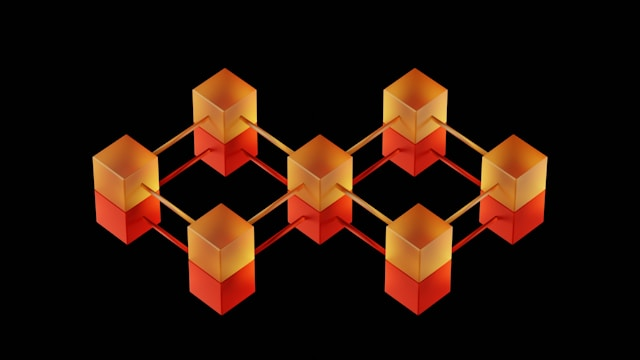
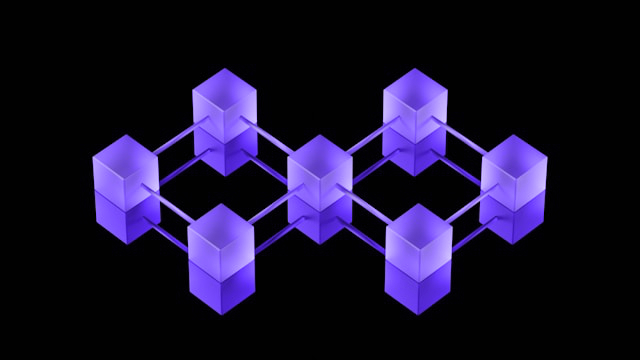
style(landing): added animated project carousel and switchable proof imagery

Changed region(s): [[0.125, 0.1833, 0.875, 0.8861]]

diff --git a/src/components/patterns/BuildIdeasSection.tsx b/src/components/patterns/BuildIdeasSection.tsx
@@ -36,6 +36,44 @@ const otherPrompts = [
   'Greenhouse monitor',
 ] as const;
 
+function ProjectIdeaCards({ duplicate = false }: { duplicate?: boolean }) {
+  return (
+    <div
+      aria-hidden={duplicate || undefined}
+      className="build-ideas-carousel-group"
+    >
+      {buildIdeas.map(({ title, text, Icon }) => (
+        <article
+          className="build-ideas-card group flex min-h-64 w-[min(20rem,calc(100vw-3rem))] shrink-0 flex-col justify-between rounded-soft border border-grey-02 bg-core-white p-6 sm:w-80 lg:w-[22rem]"
+          key={title}
+        >
+          <div className="flex items-start justify-between gap-4">
+            <Icon aria-hidden="true" className="text-brand-01" size={30} />
+            <span className="rounded-full border border-grey-02 px-3 py-1 font-mono text-[10px] uppercase tracking-[0.12em] text-text-secondary">
+              Project idea
+            </span>
+          </div>
+          <div>
+            <h3 className="text-2xl font-semibold">{title}</h3>
+            <p className="mt-3 leading-relaxed text-text-secondary">{text}</p>
+          </div>
+        </article>
+      ))}
+
+      <aside className="build-ideas-card flex min-h-64 w-[min(20rem,calc(100vw-3rem))] shrink-0 flex-col justify-between rounded-soft border border-brand-01/30 bg-brand-01 p-6 text-core-white sm:w-80 lg:w-[22rem]">
+        <Lightbulb aria-hidden="true" size={30} />
+        <div>
+          <h3 className="text-2xl font-semibold">Bring your own idea</h3>
+          <p className="mt-3 leading-relaxed text-core-white/80">
+            Start with a project that already creates useful data, then decide
+            where a verifiable record adds value.
+          </p>
+        </div>
+      </aside>
+    </div>
+  );
+}
+
 export function BuildIdeasSection() {
   return (
     <section
@@ -56,55 +94,16 @@ export function BuildIdeasSection() {
           </p>
         </div>
 
-        <div className="mt-12 grid gap-4 md:grid-cols-2 lg:grid-cols-6">
-          {buildIdeas.map(({ title, text, Icon }, index) => (
-            <article
-              className={`group flex min-h-64 flex-col justify-between rounded-soft border p-6 transition-transform duration-200 motion-reduce:transition-none ${
-                index === 0
-                  ? 'border-core-black bg-core-black text-core-white lg:col-span-2'
-                  : 'border-grey-02 bg-core-white lg:col-span-2 hover:-translate-y-1'
-              }`}
-              key={title}
-            >
-              <div className="flex items-start justify-between gap-4">
-                <Icon
-                  aria-hidden="true"
-                  className={index === 0 ? 'text-brand-02' : 'text-brand-01'}
-                  size={30}
-                />
-                <span
-                  className={`rounded-full border px-3 py-1 font-mono text-[10px] uppercase tracking-[0.12em] ${
-                    index === 0
-                      ? 'border-grey-06 text-grey-03'
-                      : 'border-grey-02 text-text-secondary'
-                  }`}
-                >
-                  Project idea
-                </span>
-              </div>
-              <div>
-                <h3 className="text-2xl font-semibold">{title}</h3>
-                <p
-                  className={`mt-3 leading-relaxed ${
-                    index === 0 ? 'text-grey-03' : 'text-text-secondary'
-                  }`}
-                >
-                  {text}
-                </p>
-              </div>
-            </article>
-          ))}
-
-          <aside className="flex min-h-64 flex-col justify-between rounded-soft border border-brand-01/30 bg-brand-01 p-6 text-core-white lg:col-span-2">
-            <Lightbulb aria-hidden="true" size={30} />
-            <div>
-              <h3 className="text-2xl font-semibold">Bring your own idea</h3>
-              <p className="mt-3 leading-relaxed text-core-white/80">
-                Start with a project that already creates useful data, then
-                decide where a verifiable record adds value.
-              </p>
-            </div>
-          </aside>
+        <div
+          aria-label="Project ideas carousel. Focus or hover to pause."
+          className="build-ideas-carousel mt-12 focus-visible:outline-2 focus-visible:outline-offset-4 focus-visible:outline-brand-01"
+          role="region"
+          tabIndex={0}
+        >
+          <div className="build-ideas-carousel-track">
+            <ProjectIdeaCards />
+            <ProjectIdeaCards duplicate />
+          </div>
         </div>
 
         <div className="mt-6 flex flex-wrap items-center gap-2 border-t border-grey-02 pt-6">

diff --git a/src/index.css b/src/index.css
@@ -190,6 +190,63 @@
   }
 }
 
+@keyframes build-ideas-carousel-scroll {
+  to {
+    transform: translateX(calc(-50% - 0.5rem));
+  }
+}
+
+.build-ideas-carousel {
+  --carousel-edge-fade: 1.5rem;
+  overflow: hidden;
+  padding-block: 1rem;
+  -webkit-mask-image: linear-gradient(
+    to right,
+    transparent,
+    black var(--carousel-edge-fade),
+    black calc(100% - var(--carousel-edge-fade)),
+    transparent
+  );
+  mask-image: linear-gradient(
+    to right,
+    transparent,
+    black var(--carousel-edge-fade),
+    black calc(100% - var(--carousel-edge-fade)),
+    transparent
+  );
+}
+
+.build-ideas-carousel-track,
+.build-ideas-carousel-group {
+  display: flex;
+  width: max-content;
+  gap: 1rem;
+}
+
+.build-ideas-carousel-track {
+  animation: build-ideas-carousel-scroll 42s linear infinite;
+  will-change: transform;
+}
+
+.build-ideas-card {
+  transition: transform 250ms cubic-bezier(0.22, 1, 0.36, 1);
+}
+
+.build-ideas-card:hover {
+  transform: scale(1.025);
+}
+
+.build-ideas-carousel:hover .build-ideas-carousel-track,
+.build-ideas-carousel:focus-within .build-ideas-carousel-track {
+  animation-play-state: paused;
+}
+
+@media (min-width: 640px) {
+  .build-ideas-carousel {
+    --carousel-edge-fade: 3rem;
+  }
+}
+
 @media (prefers-reduced-motion: reduce) {
   :root {
     scroll-behavior: auto;
@@ -198,6 +255,26 @@
   .onboarding-enter,
   .onboarding-enter-stagger > * {
     animation: none !important;
+  }
+
+  .build-ideas-carousel {
+    overflow-x: auto;
+  }
+
+  .build-ideas-carousel-track {
+    animation: none;
+  }
+
+  .build-ideas-card {
+    transition: none;
+  }
+
+  .build-ideas-card:hover {
+    transform: none;
+  }
+
+  .build-ideas-carousel-group[aria-hidden='true'] {
+    display: none;
   }
 }
 

diff --git a/src/components/patterns/WhyProofSection.tsx b/src/components/patterns/WhyProofSection.tsx
@@ -1,24 +1,37 @@
 import proofOriginImage from '../../assets/images/es_proof_01.jpg';
 import proofTimeImage from '../../assets/images/es_proof_02.jpg';
 import proofIntegrityImage from '../../assets/images/es_proof_03.jpg';
+import proofOriginImageAlt from '../../assets/images/es_proof_04.jpg';
+import proofTimeImageAlt from '../../assets/images/es_proof_05.jpg';
+import proofIntegrityImageAlt from '../../assets/images/es_proof_06.jpg';
+
+// Change this value to switch all three proof-card banners together.
+const proofImageSet: 'brandImg' | 'altImg' = 'brandImg';
+
+const proofImages = {
+  brandImg: [proofOriginImage, proofTimeImage, proofIntegrityImage],
+  altImg: [proofOriginImageAlt, proofTimeImageAlt, proofIntegrityImageAlt],
+} as const;
+
+const [originImage, timeImage, integrityImage] = proofImages[proofImageSet];
 
 const proofReasons = [
   {
     title: 'Where it came from',
     text: 'Link records back to the device or project that created them.',
-    image: proofOriginImage,
+    image: originImage,
     imageAlt: 'Abstract fingerprint pattern',
   },
   {
     title: 'When it happened',
     text: 'Preserve a timestamped history of physical-world events.',
-    image: proofTimeImage,
+    image: timeImage,
     imageAlt: 'Clock on a vivid orange background',
   },
   {
     title: 'Whether it changed',
     text: 'Make tampering or later edits visible instead of invisible.',
-    image: proofIntegrityImage,
+    image: integrityImage,
     imageAlt: 'Linked blocks representing a connected record',
   },
 ] as const;

diff --git a/CHANGELOG.md b/CHANGELOG.md
@@ -2,6 +2,19 @@
 
 ## [Unreleased]
 
+### [CHANGED 2026-08-31] — Added switchable proof banner palettes
+
+#### Changed
+
+- Added one centralized setting for switching the proof cards between the `es_proof_01–03` and `es_proof_04–06` image sets.
+
+### [CHANGED 2026-08-31] — Animated builder project ideas
+
+#### Changed
+
+- Turned the builder project cards into a spacious, softly edge-faded carousel with pause and subtle card enlargement on hover, plus a static reduced-motion mode.
+- Unified the first project card with the other project-idea cards while retaining the purple brand accent.
+
 ### [CHANGED 2026-08-31] — Refined feature preview framing
 
 #### Changed
